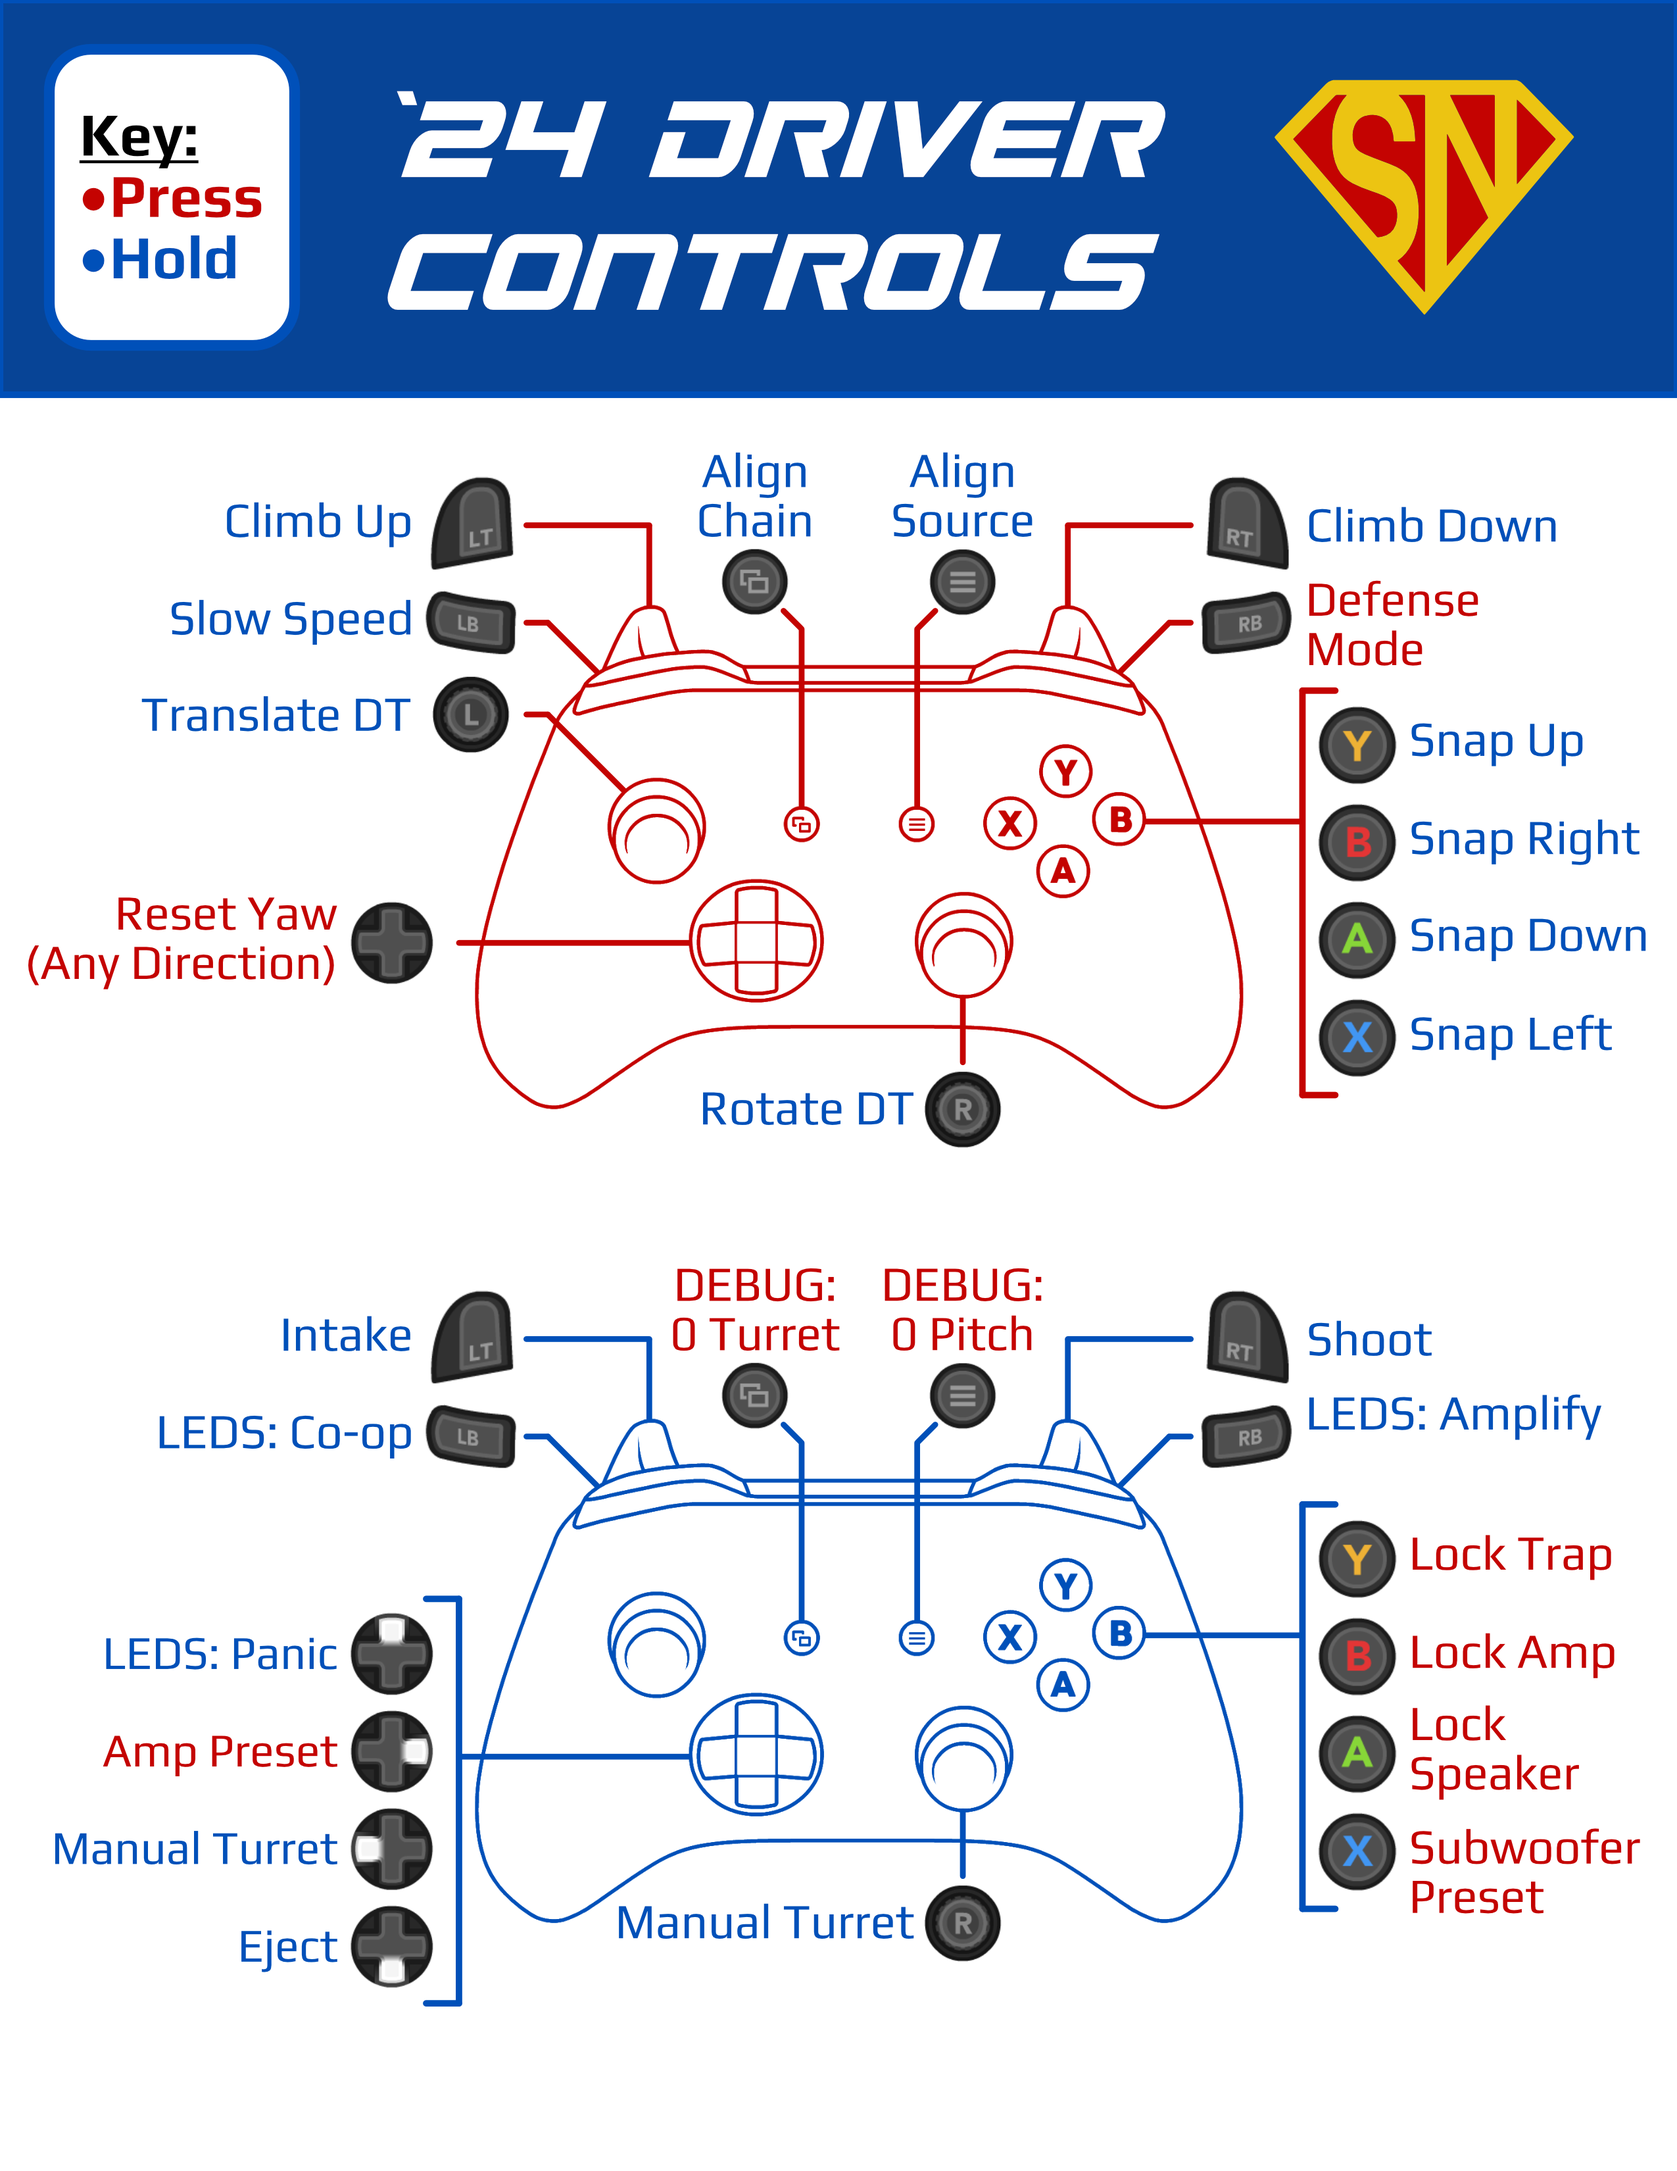
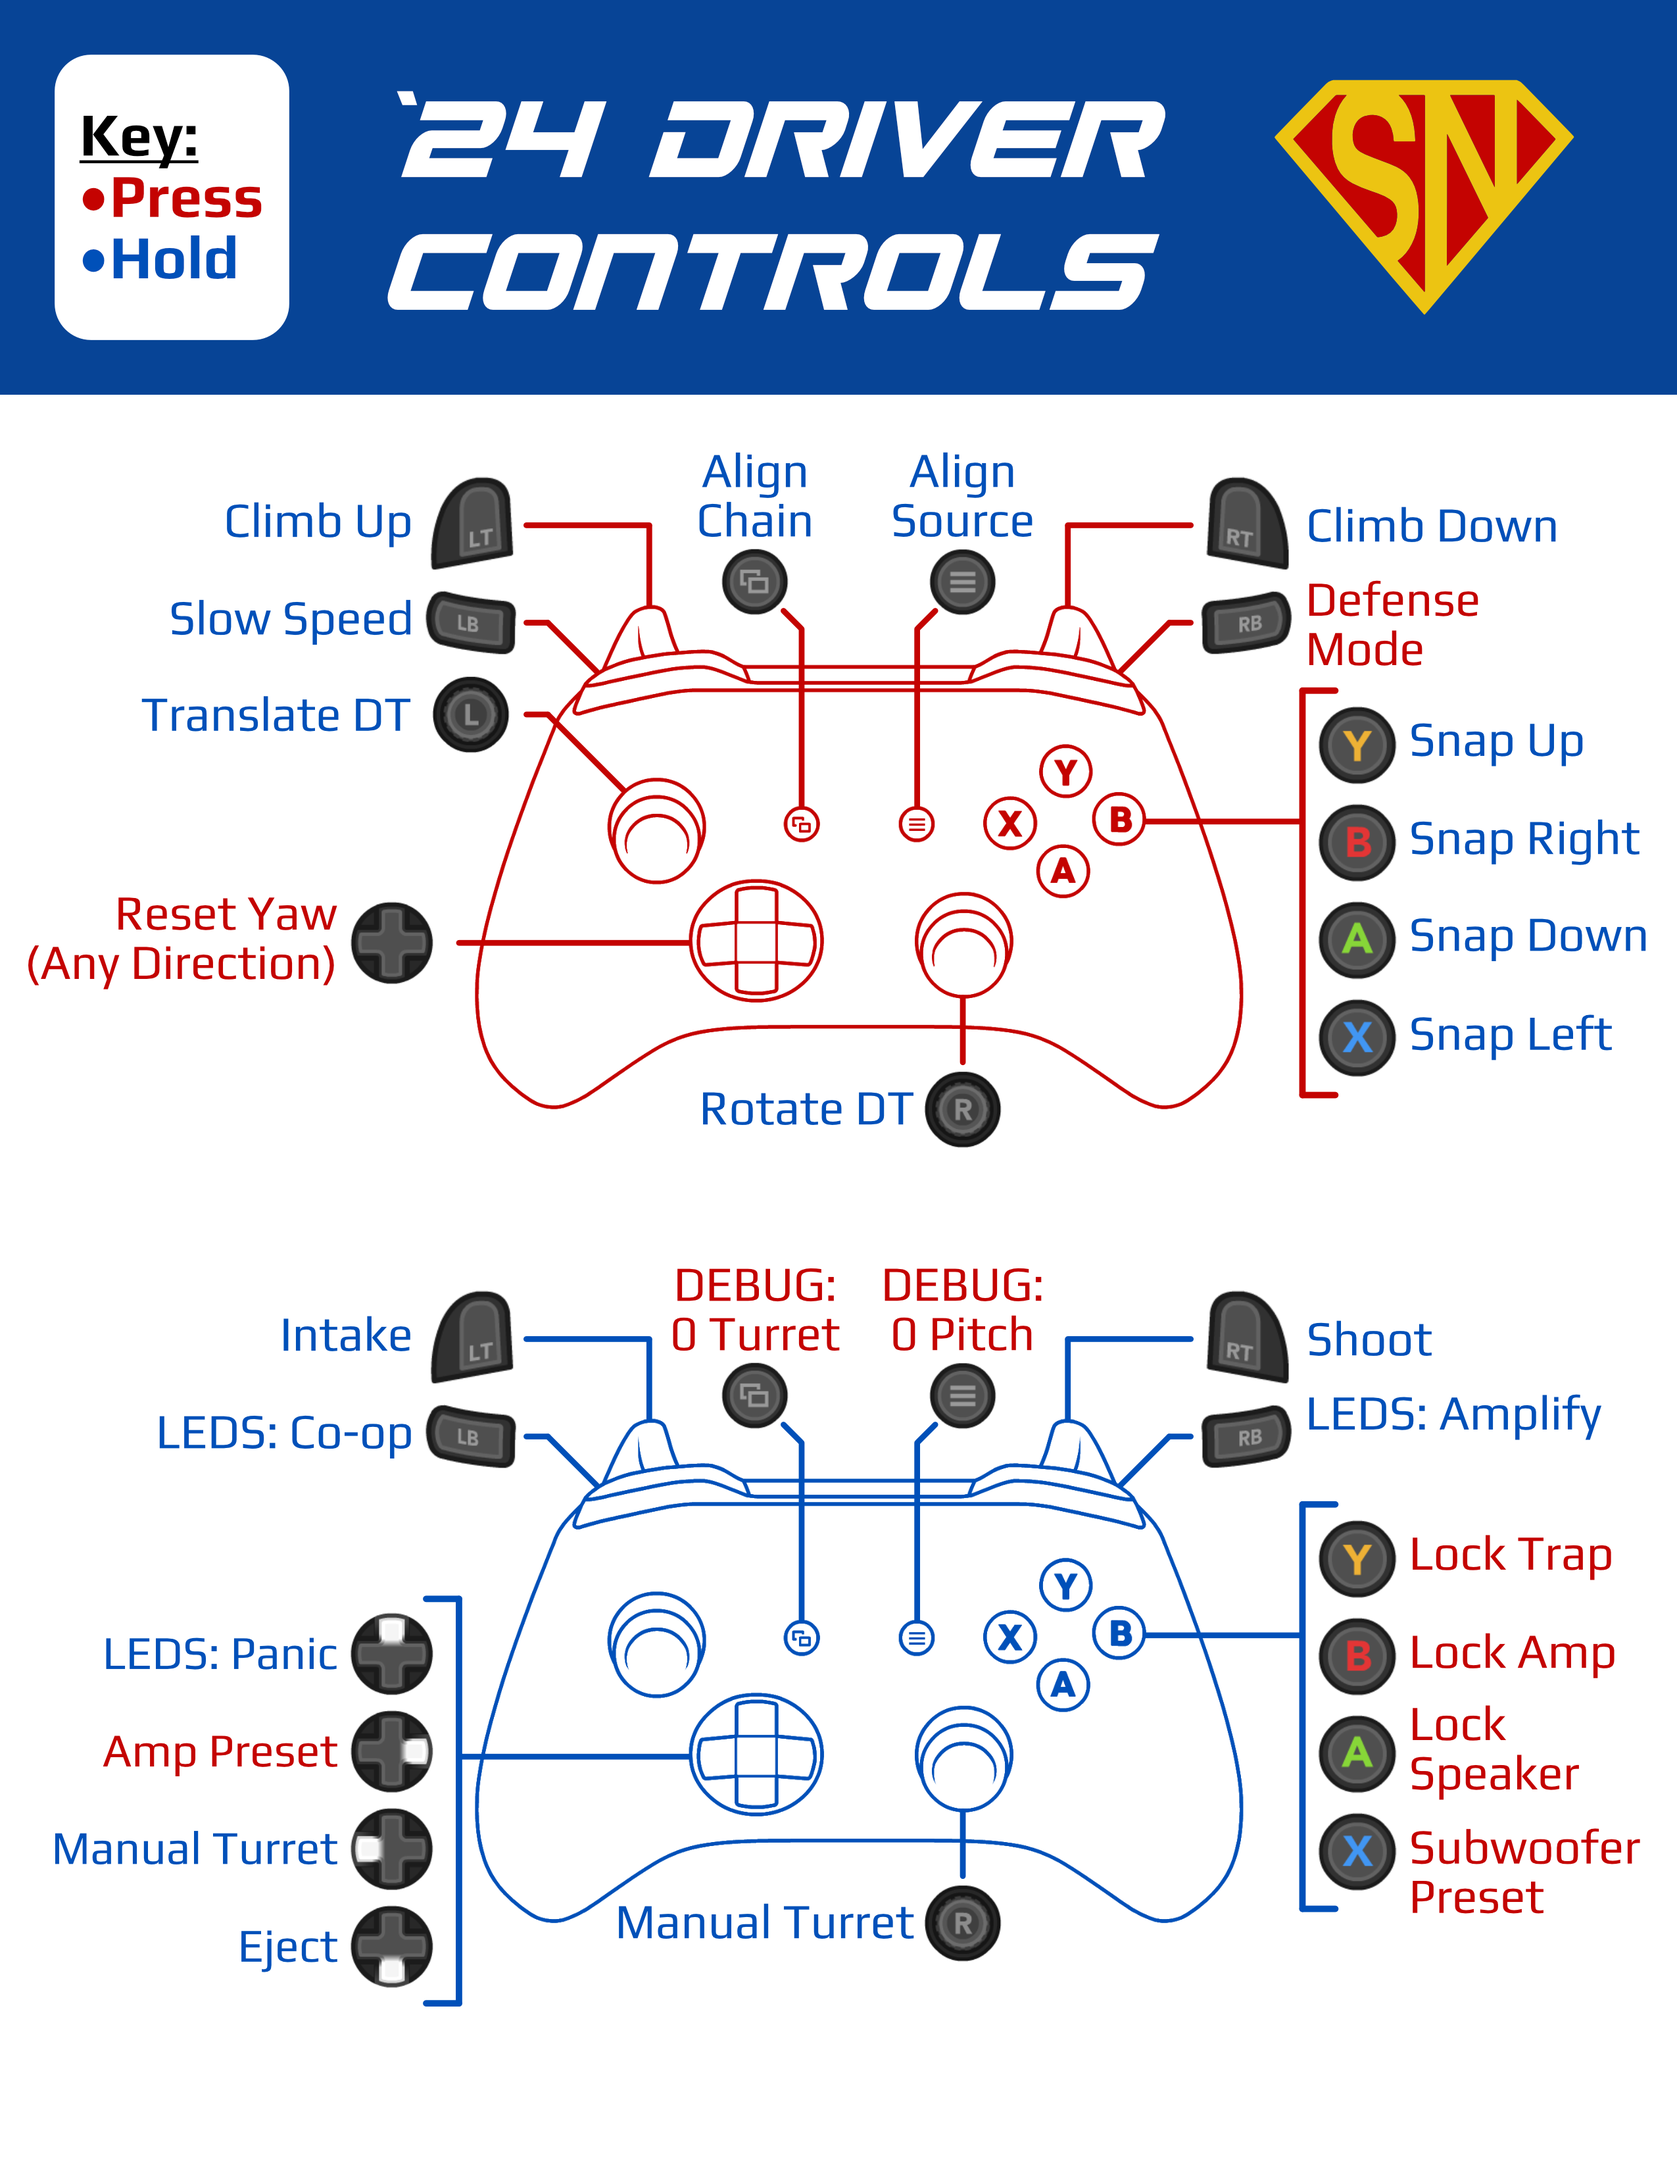
Add Slow Mode

Changed region(s): [[0.0, 0.0, 0.1859, 0.1873], [0.9914, 0.0, 1.0, 0.1873]]

diff --git a/src/main/java/frc/robot/commands/Drive.java b/src/main/java/frc/robot/commands/Drive.java
@@ -18,17 +18,18 @@ import frc.robot.subsystems.Drivetrain;
 public class Drive extends Command {
   Drivetrain subDrivetrain;
   DoubleSupplier xAxis, yAxis, rotationAxis;
-  Trigger northTrigger, eastTrigger, southTrigger, westTrigger;
-  boolean isOpenLoop;
+  boolean isPracticeBot, isOpenLoop;
+  Trigger slowMode, northTrigger, eastTrigger, southTrigger, westTrigger;
 
-  boolean isPracticeBot;
-  double driveSpeed;
+  double driveSpeed, xVelocity, yVelocity, rVelocity, slowMultiplier;
+  Translation2d translationVelocity;
 
   public Drive(
       Drivetrain subDrivetrain,
       DoubleSupplier xAxis,
       DoubleSupplier yAxis,
       DoubleSupplier rotationAxis,
+      Trigger slowMode,
       Trigger northTrigger,
       Trigger eastTrigger,
       Trigger southTrigger,
@@ -39,6 +40,7 @@ public class Drive extends Command {
     this.xAxis = xAxis;
     this.yAxis = yAxis;
     this.rotationAxis = rotationAxis;
+    this.slowMode = slowMode;
     this.isPracticeBot = isPracticeBot;
 
     this.northTrigger = northTrigger;
@@ -58,10 +60,13 @@ public class Drive extends Command {
 
   @Override
   public void execute() {
-    // Get Joystick inputs
-    double xVelocity = xAxis.getAsDouble() * driveSpeed;
-    double yVelocity = -yAxis.getAsDouble() * driveSpeed;
-    double rVelocity = -rotationAxis.getAsDouble() * Units.degreesToRadians(prefDrivetrain.turnSpeed.getValue());
+    // Get inputs
+    slowMultiplier = (slowMode.getAsBoolean()) ? prefDrivetrain.slowModeMultiplier.getValue() : 1;
+    xVelocity = xAxis.getAsDouble() * driveSpeed;
+    yVelocity = -yAxis.getAsDouble() * driveSpeed;
+    rVelocity = -rotationAxis.getAsDouble() * Units.degreesToRadians(prefDrivetrain.turnSpeed.getValue());
+
+    translationVelocity = new Translation2d(xVelocity, yVelocity).times(slowMultiplier);
 
     // If the Driver is providing a rotation manually, don't snap
     if (rVelocity != 0.0) {
@@ -78,7 +83,7 @@ public class Drive extends Command {
       }
     }
 
-    subDrivetrain.drive(new Translation2d(xVelocity, yVelocity), rVelocity, isOpenLoop);
+    subDrivetrain.drive(translationVelocity, rVelocity, isOpenLoop);
   }
 
   @Override

diff --git a/src/main/java/frc/robot/RobotPreferences.java b/src/main/java/frc/robot/RobotPreferences.java
@@ -78,6 +78,11 @@ public class RobotPreferences {
         "minimumSteerSpeedPercent", 0.01);
 
     /**
+     * Value to multiply with the translation velocity when slow mode is enabled
+     */
+    public static final SN_DoublePreference slowModeMultiplier = new SN_DoublePreference("slowModeMultiplier", .2);
+
+    /**
      * <p>
      * Rotational speed while manually driving
      * </p>

diff --git a/src/main/java/frc/robot/RobotContainer.java b/src/main/java/frc/robot/RobotContainer.java
@@ -81,6 +81,7 @@ public class RobotContainer implements Logged {
             conDriver.axis_LeftY,
             conDriver.axis_LeftX,
             conDriver.axis_RightX,
+            conDriver.btn_LeftBumper,
             conDriver.btn_North,
             conDriver.btn_East,
             conDriver.btn_South,
